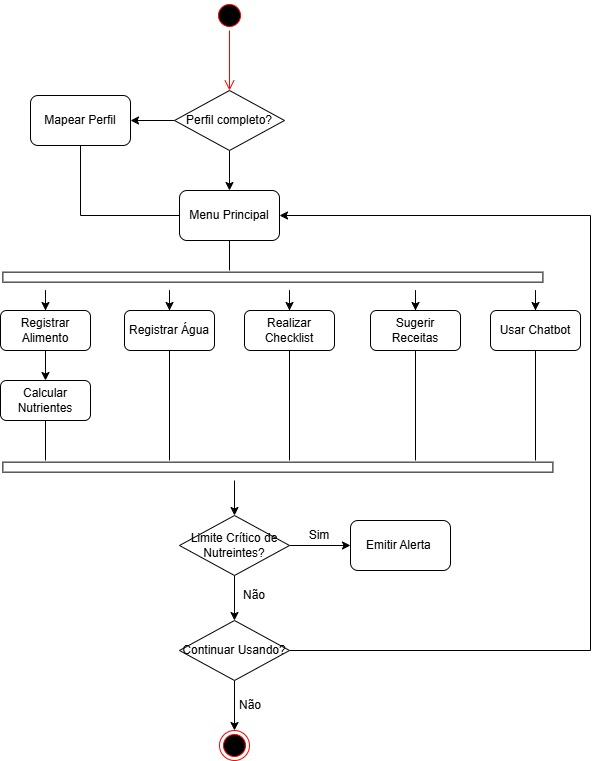
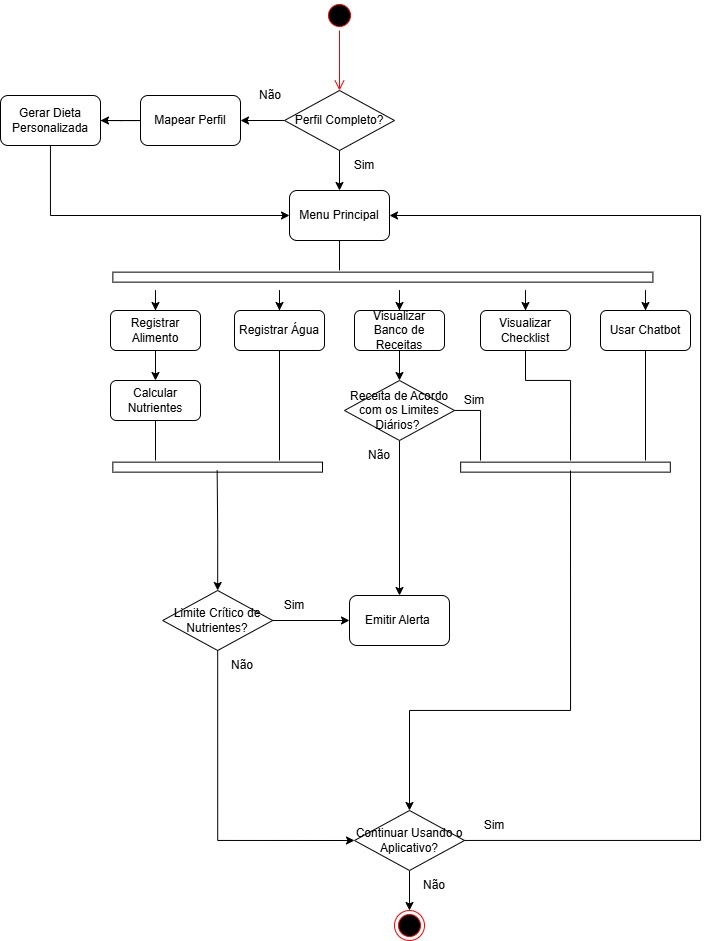
Update activity diagram

diff --git a/docs/main-doc.md b/docs/main-doc.md
@@ -22,7 +22,8 @@ Versão | Data | Descrição | Autor
 0.2.2-alpha	| 08/06/2026 | Atualização no diagrama de implantação | Francisco Felipe
 0.2.3-alpha	| 08/06/2026 | Atualização no protótipos de tela | Francisco Felipe
 0.2.4-alpha | 08/06/2026 | Atualização no diagrama de caso de uso | Raimundo Neto
-0.2.4-alpha | 08/06/2026 | Adicionado dicionário de dados | Raimundo Neto
+0.2.5-alpha | 08/06/2026 | Adicionado dicionário de dados | Raimundo Neto
+0.2.6-alpha | 08/06/2026 | Atualização no diagrama de atividades | Raimundo Neto
 
 
 ### 2. Introdução